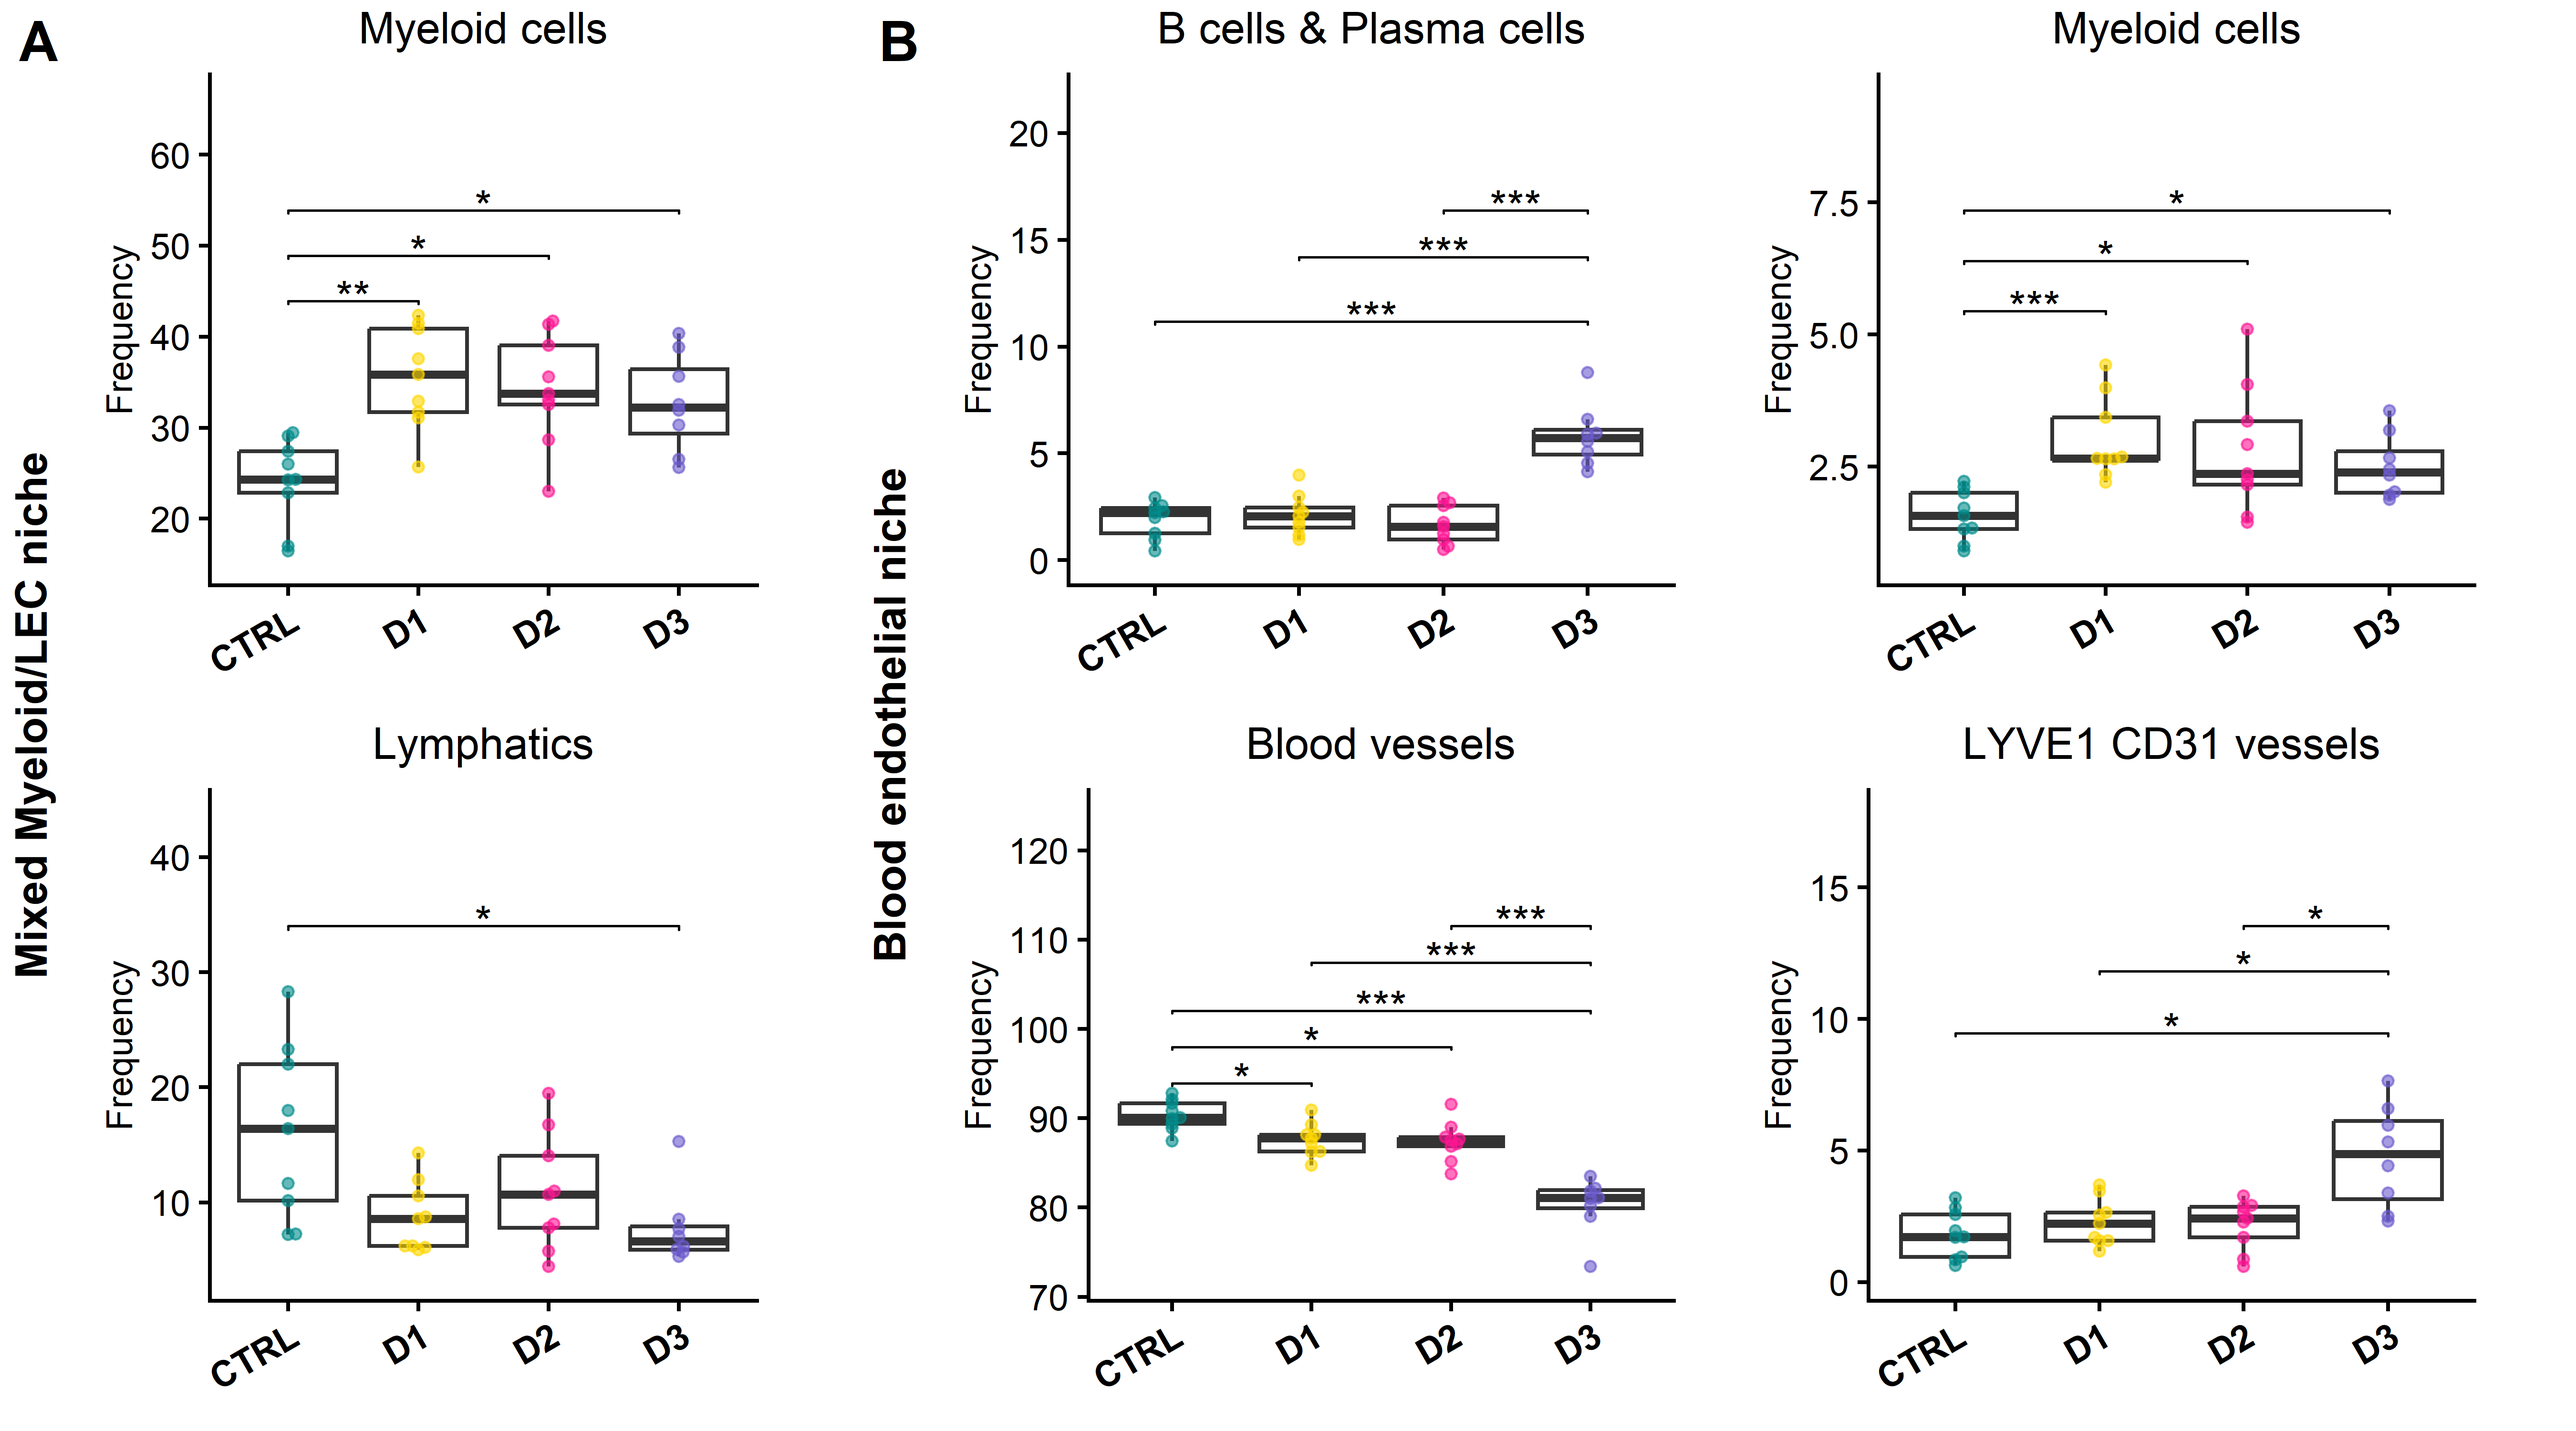
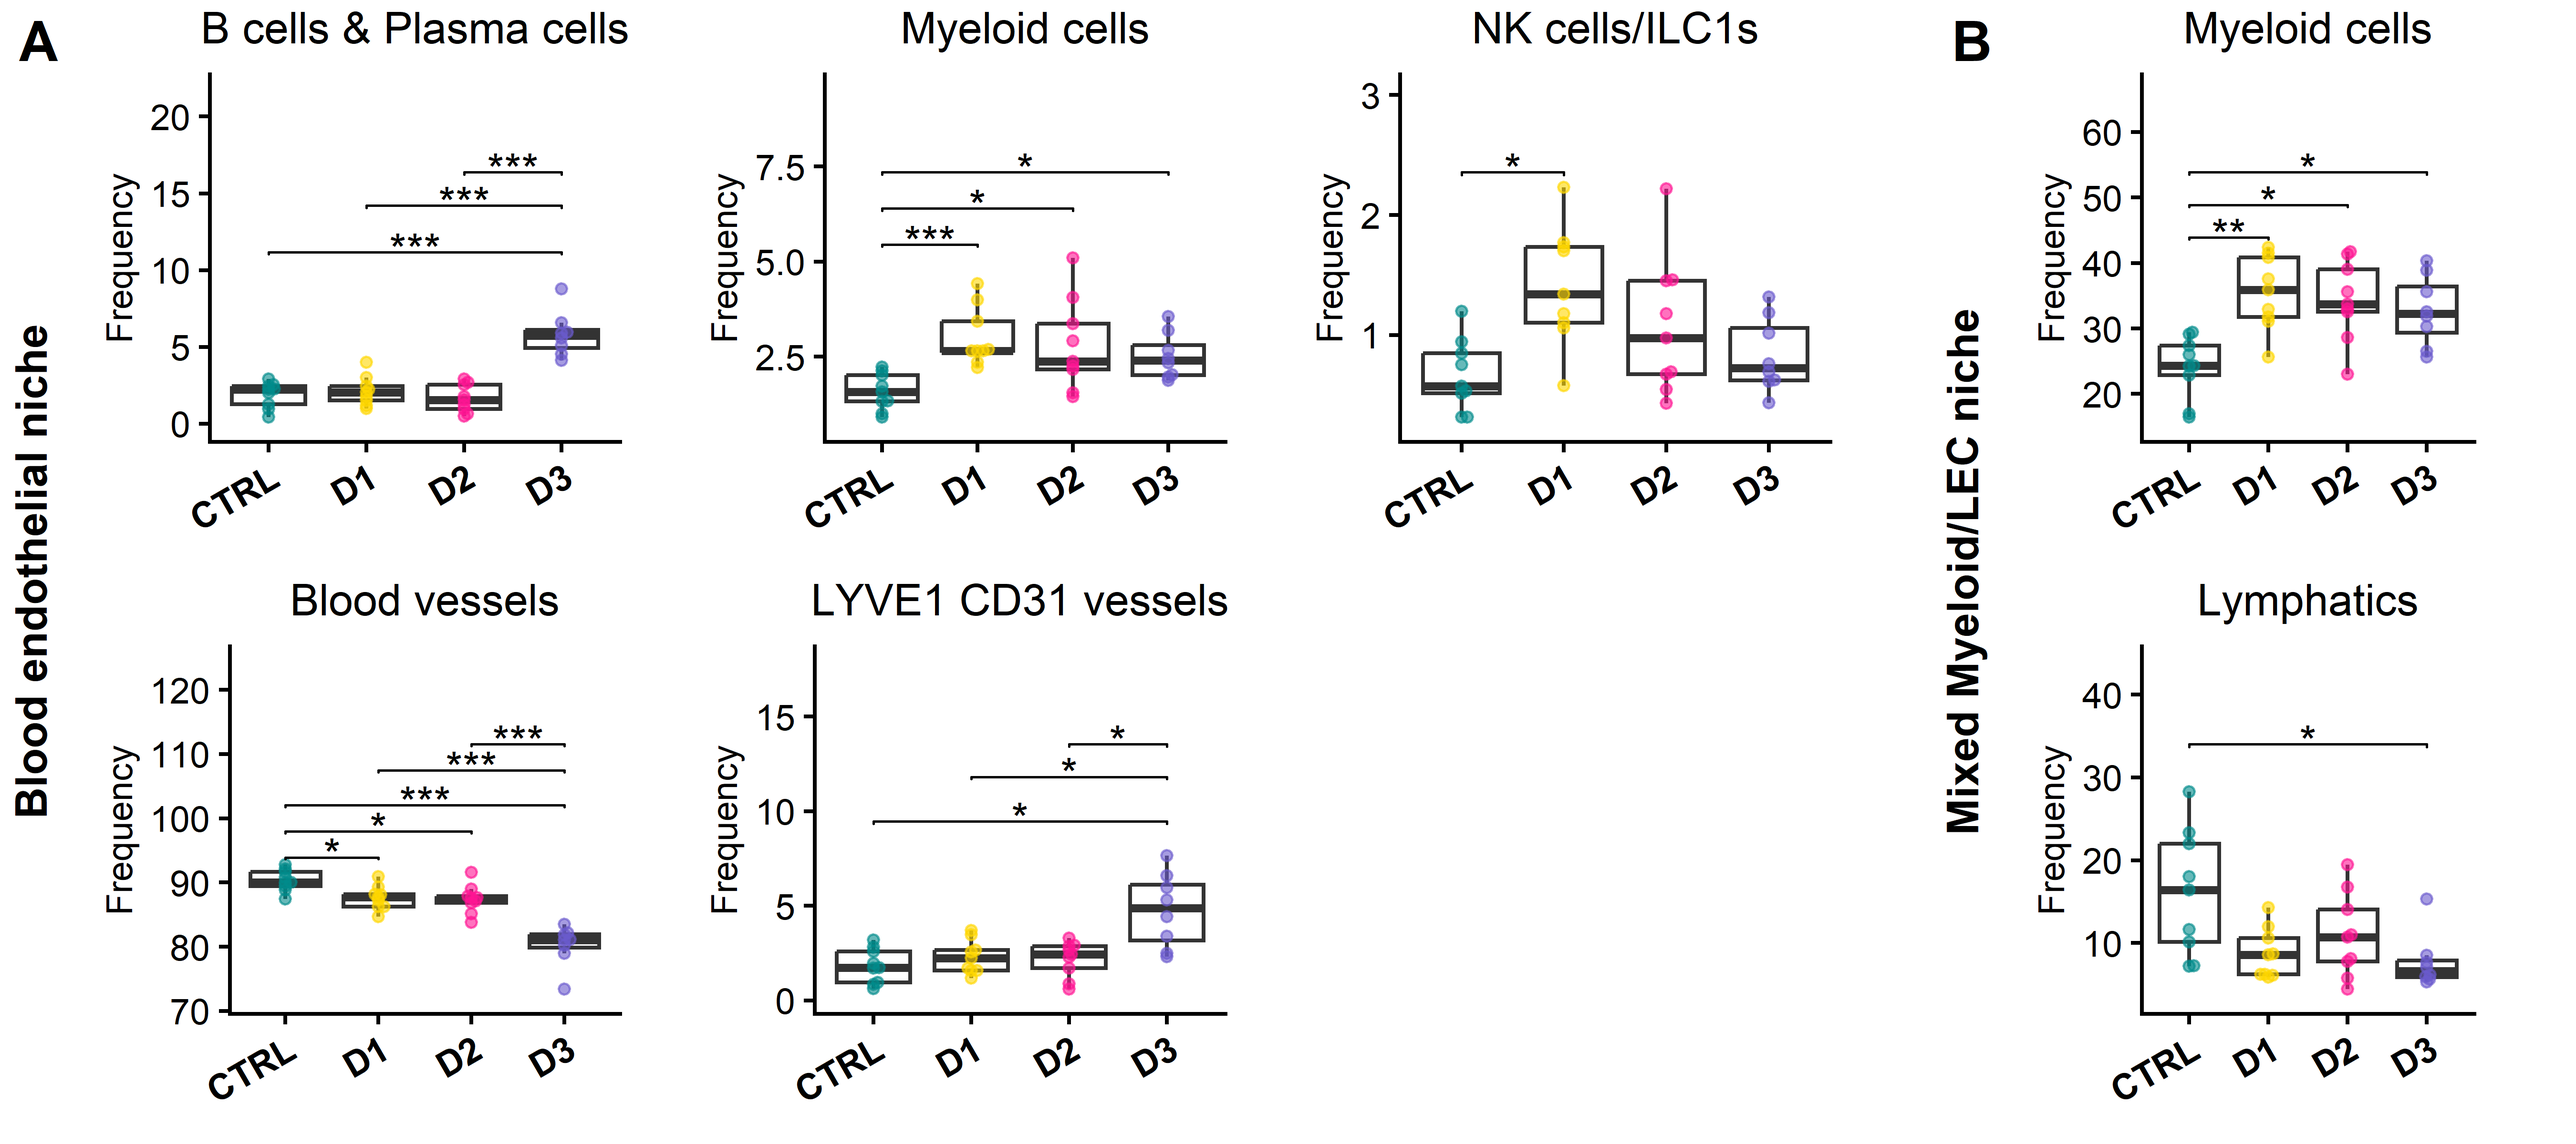
Changed order of immune and endothelia in supp figure

diff --git a/2_visualizations_for_figures/Fig_6_Niche_analysis_lung.md b/2_visualizations_for_figures/Fig_6_Niche_analysis_lung.md
@@ -1,7 +1,7 @@
 ---
 title: "Figure 6: Niche analysis mouse lung"
 author: "Sandy Kroh"
-date: "April 29, 2026"
+date: "April 30, 2026"
 output:
   html_document:
     toc: yes
@@ -1606,9 +1606,10 @@ plot_myly <- annotate_figure(
 plot_endo <- ggarrange(
   niche_plots_all[["Blood endothelial niche_B cells & Plasma cells"]],
   niche_plots_all[["Blood endothelial niche_Myeloid cells"]],
+  niche_plots_all[["Blood endothelial niche_NK cells/ILC1s"]],
   niche_plots_all[["Blood endothelial niche_EMCN CD31 Blood vessels"]],
   niche_plots_all[["Blood endothelial niche_LYVE1 CD31 vessels"]],
-  ncol = 2, nrow = 2)+
+  ncol = 3, nrow = 2)+
   theme(plot.margin = margin(0, 0.25, 0, 0, "cm"))
 
 plot_endo <- annotate_figure(
@@ -1620,9 +1621,9 @@ plot_endo <- annotate_figure(
 
 
 ggarrange(
-  plot_myly, plot_endo, 
+  plot_endo, plot_myly, 
   ncol = 2, nrow = 1, 
-  widths = c(1, 2), 
+  widths = c(3, 1), 
   labels = "AUTO")
 ```
 

diff --git a/2_visualizations_for_figures/Fig_1_MELC_panel_workflow.md b/2_visualizations_for_figures/Fig_1_MELC_panel_workflow.md
@@ -1,7 +1,7 @@
 ---
 title: "Figure 1: MELC panel and sample prep workflow"
 author: "Sandy Kroh"
-date: "April 29, 2026"
+date: "April 30, 2026"
 output:
   html_document:
     toc: yes
@@ -215,9 +215,9 @@ print(img_plot_workflow)
 
 
 ``` r
-ggarrange(img_plot_coloc_endo, img_plot_coloc_imm, img_plot_coloc_epi, 
+ggarrange(img_plot_coloc_imm, img_plot_coloc_endo, img_plot_coloc_epi, 
           nrow = 3, ncol = 1, 
-          heights = c(8.2, 4.9, 3.7), 
+          heights = c(4.9, 8.2, 3.7), 
           labels = "AUTO")
 ```
 
